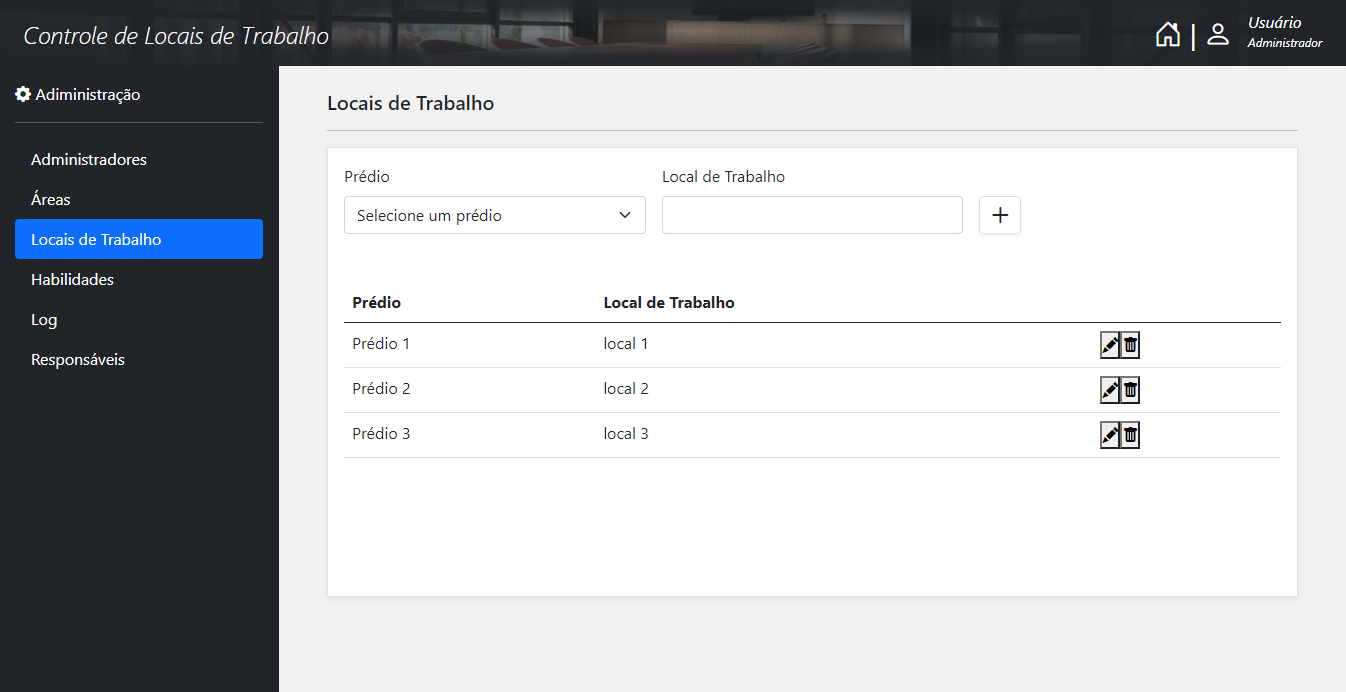
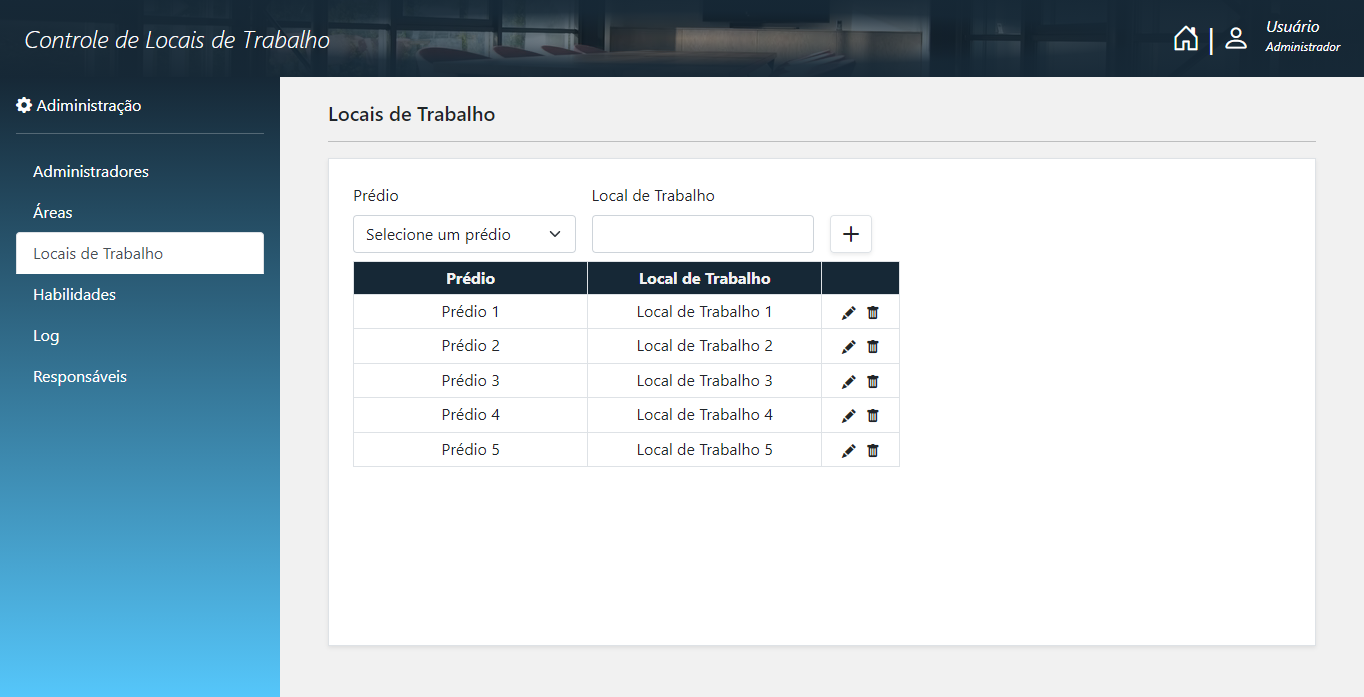
layout melhor e codigo limpo

diff --git a/app.js b/app.js
@@ -43,12 +43,12 @@ function appendItem(obj,index) {
   //edit BUTTON
   const editButton = document.createElement("button")
   editButton.innerHTML = '<i class="bi-pencil-fill"></i>'
-  editButton.classList.add("edit-btn")
+  editButton.className = ("edit-btn btn btn-sm px-1 py-0")
   buttons.appendChild(editButton)
   //trash BUTTON
   const trashButton = document.createElement("button")
   trashButton.innerHTML = '<i class="bi-trash-fill"></i>'
-  trashButton.classList.add("trash-btn")
+  trashButton.className = ("trash-btn btn btn-sm px-1 py-0")
   buttons.appendChild(trashButton)
   itemTr.appendChild(buttons)
   //append to LIST
@@ -81,8 +81,7 @@ function addItem(evt) {
 }
 
 //botões DELETE e EDIT
-let valuePredio = "",
-  valueLocal = ""
+let valueLocal = ""
 function deleteEdit(evt) {
   let arrLocaisTrabalho = JSON.parse(sessionStorage.getItem("arrLocaisTrabalho"))
   const item = evt.target
@@ -91,24 +90,24 @@ function deleteEdit(evt) {
   if (item.classList[0] === "trash-btn") {
     arrLocaisTrabalho = arrLocaisTrabalho.filter((obj,index) => index != item.parentElement.parentElement.id)
     sessionStorage.setItem("arrLocaisTrabalho", JSON.stringify(arrLocaisTrabalho))
-    item.parentElement.parentElement.remove()
-    //regarrega a lista para reordenar os IDs de cada TR
+    //regarrega a LISTA e reordena os IDs de cada TR
     showList()
   }
 
-  //Formulário EDIT
+  //"Formulário" EDIT
   if (item.classList[0] === "edit-btn") {
-    valuePredio = item.parentElement.parentElement.querySelectorAll("td")[0].innerText.slice(7)
+    const valuePredio = item.parentElement.parentElement.querySelectorAll("td")[0].innerText.slice(7)
     valueLocal = item.parentElement.parentElement.querySelectorAll("td")[1].innerText
     let options = ""
     for (let i = 1; i <= 5; i++) {
       let isSelected = valuePredio == i ? "selected" : ""
       options += `<option ${isSelected} value="${i}">Prédio ${i}</option>`
     }
+    //insere o "formulário" de edição em cada TD
     item.parentElement.parentElement.querySelectorAll("td")[0].innerHTML = `<select class="form-select">${options}`
     item.parentElement.parentElement.querySelectorAll("td")[1].innerHTML = `<input type="text" class="form-control" value="${valueLocal}"}/>`
     item.parentElement.parentElement.querySelectorAll("td")[2].innerHTML =
-      '<button class="check-btn"><i class="bi-check-lg"></i></button><button class="x-btn"><i class="bi-x-lg"></i></button>'
+      '<button class="check-btn btn btn-sm px-1 py-2"><i class="bi-check-lg"></i></button><button class="x-btn btn btn-sm px-1 py-2"><i class="bi-x-lg"></i></button>'
   }
 
   //Confirm EDIT
@@ -116,21 +115,16 @@ function deleteEdit(evt) {
     const newValuePredio = item.parentElement.parentElement.querySelector("select").value
     const newValueLocal = item.parentElement.parentElement.querySelector("input").value
     const id = item.parentElement.parentElement.id
-
-    arrLocaisTrabalho.splice(id,1,{ predio: newValuePredio, local: newValueLocal ? newValueLocal : valueLocal, id: id })
+    //armazena ITEM em 'arrLocaisTrabalho'
+    arrLocaisTrabalho.splice( id, 1, { predio: newValuePredio, local: newValueLocal ? newValueLocal : valueLocal, id: id })
     sessionStorage.setItem("arrLocaisTrabalho", JSON.stringify(arrLocaisTrabalho))
-    
-    item.parentElement.parentElement.querySelectorAll("td")[0].innerHTML = `Prédio ${newValuePredio}`
-    item.parentElement.parentElement.querySelectorAll("td")[1].innerHTML = newValueLocal ? newValueLocal : valueLocal
-    item.parentElement.parentElement.querySelectorAll("td")[2].innerHTML =
-      '<button class="edit-btn"><i class="bi-pencil-fill"></i></button><button class="trash-btn"><i class="bi-trash-fill"></i></button>'
+    //recarrega a LISTA
+    showList()  
   }
 
   //Cancel EDIT
   if (item.classList[0] === "x-btn") {
-    item.parentElement.parentElement.querySelectorAll("td")[0].innerHTML = `Prédio ${valuePredio}`
-    item.parentElement.parentElement.querySelectorAll("td")[1].innerHTML = valueLocal
-    item.parentElement.parentElement.querySelectorAll("td")[2].innerHTML =
-      '<button class="edit-btn"><i class="bi-pencil-fill"></i></button><button class="trash-btn"><i class="bi-trash-fill"></i></button>'
+    //recarrega a LISTA
+    showList()  
   }
 }

diff --git a/index.html b/index.html
@@ -31,16 +31,16 @@
         </div>
       </div>
     </header>
-    <section>
-      <aside class="d-flex flex-column flex-shrink-0 p-3 text-white bg-dark" id="sidebar">
+    <section class="d-flex">
+      <aside class="d-flex flex-column flex-shrink-0 p-3 text-white">
         <a
           href="/"
-          class="d-flex align-items-center text-white text-decoration-none"
+          class="d-flex text-white text-decoration-none"
         >
           <span class="fs-6"><i class="bi-gear-fill"></i> Adiministração</span>
         </a>
         <hr />
-        <ul class="nav nav-pills flex-column">
+        <ul class="nav nav-tabs flex-column border-0">
           <li class="nav-item">
             <a href="#" class="nav-link text-white"> Administradores </a>
           </li>
@@ -62,12 +62,12 @@
         </ul>
       </aside>
       <main>
-        <div class="container px-5 py-4">
+        <div class="px-5 py-4">
           <h4 class="fs-5">Locais de Trabalho</h4>
           <hr />
-          <div class="content bg-white border shadow-sm p-3">
-            <form class="row g-3">
-              <div class="col-4">
+          <div class="content bg-white border shadow-sm p-4">
+            <form class="row g-3 mb-2">
+              <div class="col-3">
                 <label for="predio-input" class="form-label">Prédio</label>
                 <select id="predio-input" class="form-select" aria-label="predio">
                   <option value="" selected>Selecione um prédio</option>
@@ -78,26 +78,25 @@
                   <option value="5">Prédio 5</option>
                 </select>
               </div>
-              <div class="col-4">
+              <div class="col-3">
                 <label for="local-input" class="form-label">Local de Trabalho</label>
                 <input type="text" id="local-input" class="form-control" />
               </div>
-              <div class="col-1 my-5">
+              <div class="col-1 mt-5">
                 <button class="btn border shadow-sm" type="submit">
                   <i class="bi-plus-lg"></i>
                 </button>
               </div>
             </form>
-            <div class="locais-container">
-              <table class="table">
+            <div class="col-7">
+              <table class="table table-sm table-bordered text-center">
                 <thead>
-                  <tr>
-                    <th>Prédio</th>
-                    <th>Local de Trabalho</th>
-                    <th></th>
+                    <th class="col-3">Prédio</th>
+                    <th class="col-3">Local de Trabalho</th>
+                    <th class="col-1"></th>
                   </tr>
                 </thead>
-                <tbody class="locais-list"></tbody>
+                <tbody></tbody>
               </table>
             </div>
           </div>

diff --git a/style.css b/style.css
@@ -6,27 +6,33 @@
 
 body {
   background-color: #f1f1f1;
+  min-height: 100vh;  
 }
 
 header {
   display: flex;
   justify-content: space-between;
-  background-image: radial-gradient(rgba(33, 37, 41, 0.5), rgba(33, 37, 41, 0.95), rgb(33, 37, 41)),
+  background-image: radial-gradient(rgba(22, 40, 54, 0.5), rgba(22, 40, 54, 0.95), rgb(22, 40, 54)),
     url(https://images.unsplash.com/photo-1497366811353-6870744d04b2?ixid=MnwxMjA3fDB8MHxwaG90by1wYWdlfHx8fGVufDB8fHx8&ixlib=rb-1.2.1&auto=format&fit=crop&w=1400&q=80);
   background-position: center;
-  background-size: cover;
-  height: 10vh;
+  height: 11vh;
   line-height: 0.4em;
   font-size:0.75em;
 }
 
-section {
-  display: flex;
-  flex-wrap: nowrap;
+aside {
+  background-image: linear-gradient(rgb(22, 40, 54), rgb(85, 198, 250));
+  width: 280px;
+  min-height: 89vh;
 }
 
 main {
   width: 100%;
+}
+
+thead {
+  background-color: rgb(22, 40, 54);
+  color:#f1f1f1;
 }
 
 i {
@@ -34,11 +40,5 @@ i {
 }
 
 .content {
-  display: block;
-  min-height: 450px;
-}
-
-#sidebar {
-  width: 280px;
-  height: 100vh;
+  min-height: 70vh;
 }
